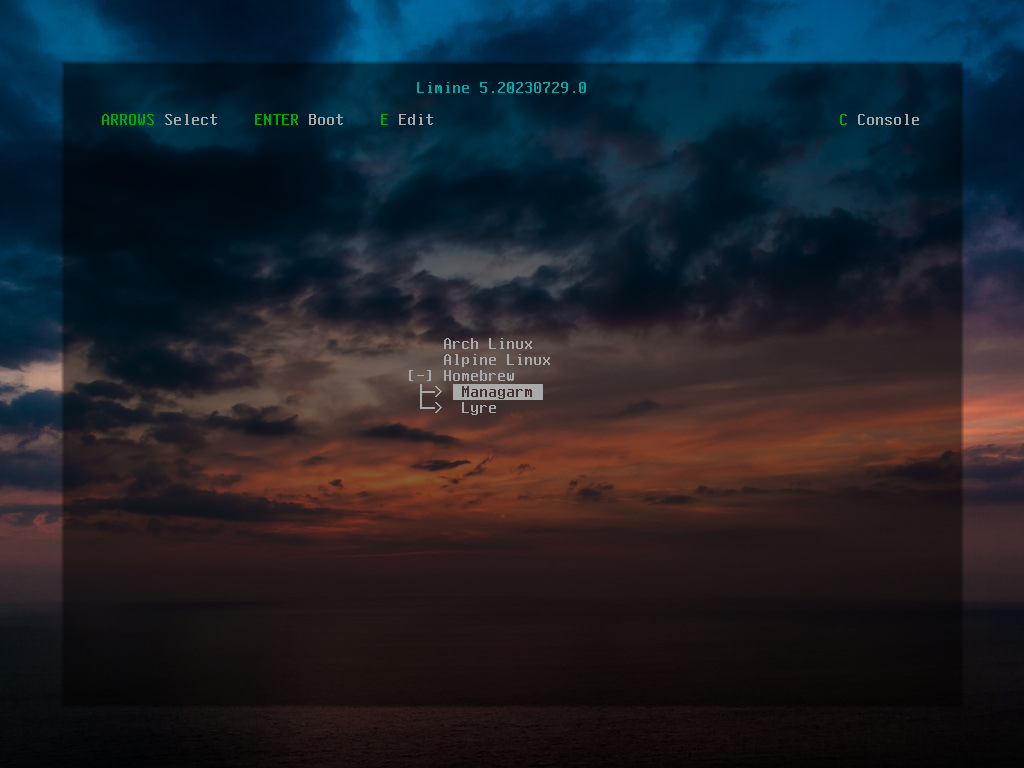
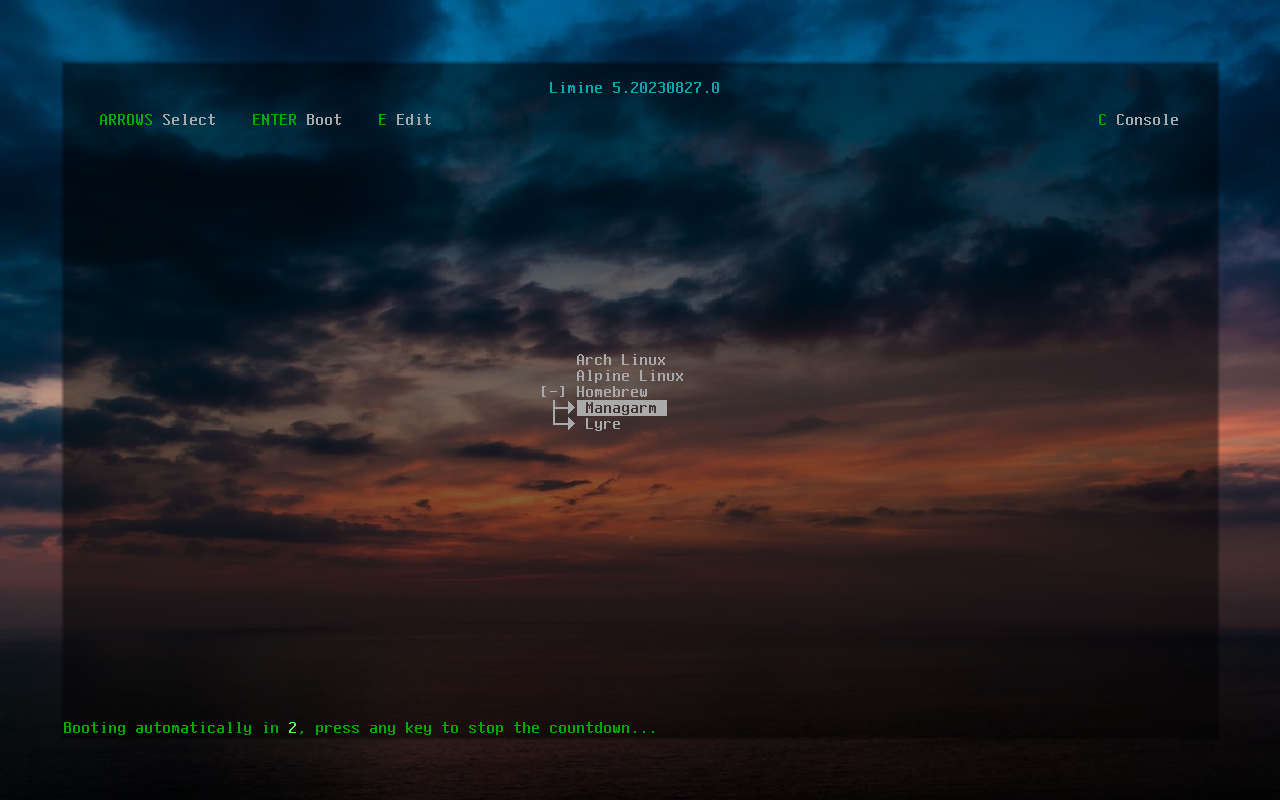
menu: Change menu arrow to use unicode big arrow

diff --git a/common/menu.c b/common/menu.c
@@ -548,12 +548,14 @@ static size_t print_tree(size_t offset, size_t window, const char *shift, size_t
         }
         if (current_entry->sub) {
             if (!no_print) print(current_entry->expanded ? "[-]" : "[+]");
+            cur_len += 3;
         } else if (level) {
-            if (!no_print) print(serial ? "-> " : "─> ");
+            if (!no_print) print(serial ? "-> " : "─►");
+            cur_len += 2;
         } else {
             if (!no_print) print("   ");
+            cur_len += 3;
         }
-        cur_len += 3;
         if (base_index + max_entries == selected_entry) {
             *selected_menu_entry = current_entry;
             if (!no_print) print("\e[7m");
